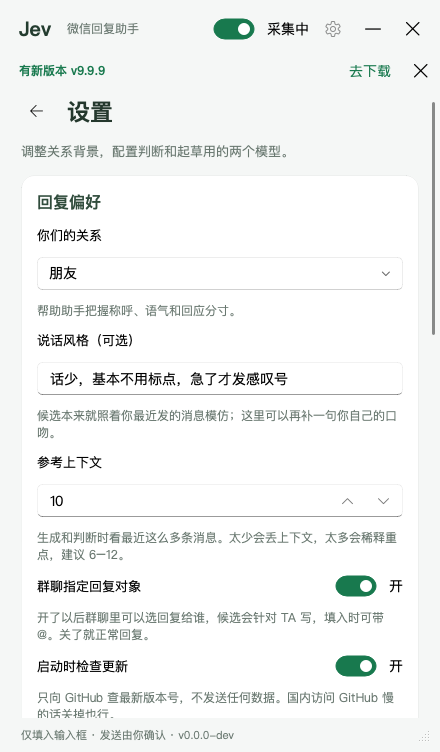
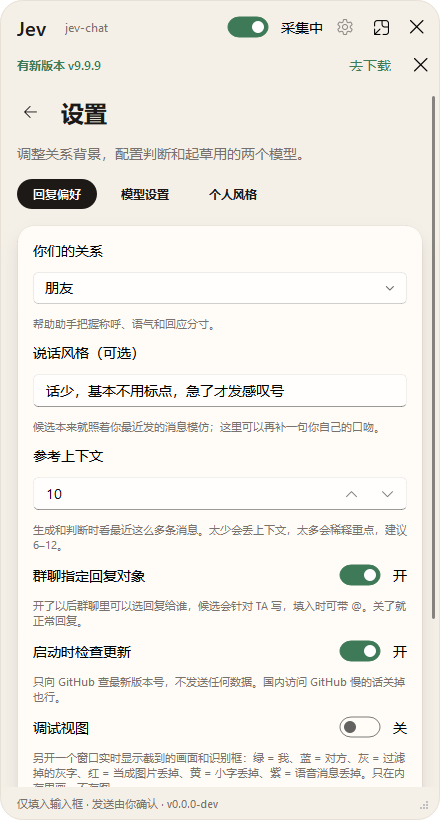
设置加「个人风格」页签，修输入框漏进裁剪，消息攒一波再问
设置页多了第三个页签「个人风格」，内容先空着占位（里面放什么还没定）。
tools/preview_ui.py 加了 --tab，截图能停在指定页签。

chat_area 找输入框顶的判据从「整行同色」换成「细横线」：微信 4.x 的输入框画的是
圆角框，左右两头留着面板底色，整行是混色的，老判据认不出它 → y_in 一路退到面板底 →
裁剪把输入框连底下那条工具栏一起吃了进去。工具栏最左那个笑脸图标 OCR 出来正好是
「?」（众数占比 0.41，离「当图片丢掉」的 0.45 就差一点），于是被当成对方发来的消息，
白触发一次判断——真机上报上来的就是这条「对方刚说 ?」。输入框非空时还会多报一条
绿色的「发送」（分类成 me，进 history）。加了自测 python app/capture.py。

消息改成攒一波再问：对方来消息不立刻调模型，把静默窗口推到 now + 5 + rand(1~5) 秒，
到期由 tick() 点火。这期间消息照常进 history，到期现取一次全喂进去，连着发的几条
只算一次调用、上下文也完整。语音和表情包/图片读不出正文、不进上下文，但也算「还在
说」，有等着的那次就把窗口往后推（子进程新增 noise 消息：画面变了却没认出新文字）。
自己回话就取消待办；从第一条消息起最多等 30 秒。等待期间 phase 停在 notify，宠物角标
留着，候选条写「读到新消息，等他发完再判断」，面板空态换成「对方还在发消息」。

diff --git a/main.py b/main.py
@@ -1,6 +1,7 @@
 # -*- coding: utf-8 -*-
 """父进程：只管界面。截图 + OCR 在 app/worker.py 的子进程里跑，队列里收新消息 →
-冒出新的对方消息才调 engine → 悬浮窗给 3 条候选 → 人点「填入」。发送永远手动。静默期零调用。
+对方来了消息、且安静 5+1~5 秒没再发，才调一次 engine → 悬浮窗给 3 条候选 → 人点「填入」。
+发送永远手动。静默期零调用。
 上下文、结果、聊天记录都按会话名（子进程 OCR 头部标题得来）分开存，切会话不串味。
 
     pip install rapidocr-onnxruntime numpy windows-capture PySide6-Fluent-Widgets
@@ -9,6 +10,7 @@
 import ctypes
 import multiprocessing
 import queue
+import random
 import re
 import threading
 import time
@@ -31,10 +33,16 @@ chats = {}
 # phase 是派生出来的流水线状态（宠物换姿势、候选条显隐都看它），notify_until 是「刚来新消息」
 # 那一下的截止时刻——用时间戳而不是布尔量，省得还要找地方把它清掉
 state = {"area": None, "busy": False, "rerun": None, "hwnd": None, "chat": "",
-         "phase": "idle", "notify_until": 0.0, "voice": None}
+         "phase": "idle", "notify_until": 0.0, "voice": None, "pending": None}
 _NOTIFY_HOLD = 0.9  # 新消息到了先闪这么久「提醒」，再进判断
 _VOICE_WINDOW = 20.0  # 点了「转文字」之后，子进程认「语音气泡下面的新文字」的窗口（秒）
 _HISTORY_DUP = 24  # 判重时往回看这么多条（一屏大概也就十来条）
+# 静默窗口：对方最后一条消息之后再等 5 + rand(1~5) 秒才问模型。连着发的几条（还有表情包、
+# 语音这种读不出正文的）都算「还在说」，把窗口往后推；攒够一次问完，不然每条问一次既费钱，
+# 判断看到的还是半句话。从第一条消息起最多等 _QUIET_MAX，免得对方一直发就一直不问。
+_QUIET_MIN = 5.0
+_QUIET_JITTER = 5.0
+_QUIET_MAX = 30.0
 results = queue.Queue()
 update_result = queue.Queue()  # 独立小队列，别跟 results 的 (kind, r, title, revision) 形状搅在一起
 
@@ -59,6 +67,21 @@ def _voice_label(dur):
     界面上别照搬，并语音那条也要靠这个字串对上号。认不出数字就原样返回。"""
     digits = re.sub(r"\D", "", dur or "")
     return f'{digits}"' if digits else (dur or "")
+
+
+def schedule_analyze(title):
+    """对方来了消息：先别问，把静默窗口往后推，等他不说了再问。
+
+    等多久是随机的（5 + rand(1~5) 秒）：固定间隔会让「对方发完」和「我们开口」卡在同一个
+    节拍上，看着像抢话。窗口到期由 tick() 去点火——那是唯一会动界面的地方。
+    notify_until 一起推到那个时刻，这样等着的这几秒宠物保持「有新消息」的样子（角标在），
+    而不是先闪一下再回到静息态。"""
+    now = time.monotonic()
+    pending = state["pending"]
+    first = pending[2] if pending and pending[0] == title else now
+    deadline = min(now + _QUIET_MIN + random.uniform(1.0, _QUIET_JITTER), first + _QUIET_MAX)
+    state["pending"] = (title, deadline, first)
+    state["notify_until"] = deadline
 
 
 def target_of(title):
@@ -203,6 +226,7 @@ def on_target_change(title, name):
     """用户挑了回复对象：记下来，这个会话里有对方的话就照新对象重跑一次。"""
     chat = chat_of(title)
     chat["target"] = name
+    state["pending"] = None  # 用户自己点的重跑，立刻跑，不等静默窗口
     msgs = list(chat["history"])
     if not any(m[0] == "her" for m in msgs):
         return
@@ -247,7 +271,18 @@ def drain():
                 # 不进喂模型的那份 history——「🔊 语音消息 3"」对模型是噪音）。
                 # 谁发的按气泡底色走：自己发的语音别挂到对方头上
                 ov.log_message(items[-1][5], f"🔊 语音消息 {_voice_label(items[-1][4])}", chat=title)
-                state["notify_until"] = time.monotonic() + _NOTIFY_HOLD
+                # 语音也是「对方还在说」：有等着的那次就把静默窗口往后推。没有就不新开一次
+                # 判断——光一条语音没正文，问了也没得判断，等他自己转文字或者接着说
+                if state["pending"] and state["pending"][0] == title:
+                    schedule_analyze(title)
+                else:
+                    state["notify_until"] = time.monotonic() + _NOTIFY_HOLD
+            continue
+        if kind == "noise":  # 画面变了、却没认出新文字：多半是对方发了表情包/图片
+            # 图片读不出正文，进不了上下文（对模型是噪音，也不该喂），但它说明对方还在发。
+            # 有等着的那次就把窗口往后推，别在他还在发图的时候插嘴
+            if state["pending"] and state["pending"][0] == msg[1]:
+                schedule_analyze(msg[1])
             continue
         if kind == "paused":  # 子进程确认已暂停
             ov.set_capture(False)
@@ -259,7 +294,8 @@ def drain():
             state["area"] = None
             for c in chats.values():  # 在跑的分析作废，回来的结果不再往界面上贴
                 c["rev"] += 1
-            state["rerun"] = None
+            state["rerun"] = state["pending"] = None
+            state["notify_until"] = 0.0
             ov.invalidate_replies()
             ov.set_busy(False)
             ov.set_capture(False, msg[1])
@@ -292,14 +328,12 @@ def drain():
         if not newest:
             continue  # 补记的是中间那条，流水线按屏幕最底下那条走，别动它
         if new[-1][0] == "her":  # 只有对方最新说话才值得分析
-            state["notify_until"] = time.monotonic() + _NOTIFY_HOLD  # 宠物先换个姿势提醒一下
-            msgs = list(chat["history"])
-            if state["busy"]:
-                state["rerun"] = (title, msgs)
-                ov.set_busy(True)
-            else:
-                start_analyze(title, msgs)
+            schedule_analyze(title)  # 不立刻问：等他不说了再问（见 schedule_analyze）
+            ov.set_status("对方刚发来消息，等他发完再给建议", "busy")
+            ov.set_waiting()
         else:
+            state["pending"] = None  # 自己回了话，等着的那次就不用问了
+            state["notify_until"] = 0.0  # 提醒一起收掉：自己回的话，不用再「有新消息」的样子
             state["rerun"] = None
             ov.set_busy(False)
             ov.set_status("你已回复，等待对方的新消息")
@@ -341,7 +375,7 @@ def tick():
         while not results.empty():
             kind, r, title, revision = results.get()
             state["busy"] = False
-            if state["rerun"]:  # 分析期间又来了新消息，接着跑最新的
+            if state["rerun"]:  # 分析期间用户又挑了回复对象，接着跑他挑的那份
                 (t, msgs), state["rerun"] = state["rerun"], None
                 start_analyze(t, msgs)
                 continue
@@ -358,6 +392,12 @@ def tick():
                 ov.set_busy(False)
                 ov.set_status("生成失败，请检查网络和服务设置；新消息到来后会重试。", "error")
                 ov.log(r)
+        # 静默窗口到了才真去问。这期间攒下的消息早就在 history 里了（drain 一收到就记），
+        # 所以这里现取一次，连着发的几条一起喂进去
+        pending = state["pending"]
+        if pending and not state["busy"] and time.monotonic() >= pending[1]:
+            state["pending"] = None
+            start_analyze(pending[0], list(chat_of(pending[0])["history"]))
         refresh_phase()
     except Exception:
         traceback.print_exc()  # 一帧出错不退出

diff --git a/app/capture.py b/app/capture.py
@@ -52,12 +52,41 @@ def unminimize(hwnd):
     return True
 
 
+def _thin_lines(full, bg, x0, x1, y0, y1):
+    """面板里那几根**细横线**的 y 坐标（头部下面一根、输入框顶一根）。
+
+    判据：整行几乎都不是底色（<25%）+ 非底色像素基本同一种颜色 + 厚度 ≤4px。
+    不能要求「整行同色」——微信 4.x 的输入框画的是个圆角框，左右两头留出面板底色，
+    混进来整行的 std 就上去了。真机上就是这么漏判的：y_in 一路退到面板底，裁剪把
+    输入框连底下那条工具栏一起吃了进去，工具栏最左那个笑脸图标被 OCR 读成「?」、
+    还当成对方发来的消息，白触发一次判断（输入框非空时还会多报一条绿色的「发送」）。
+    厚度那道是给窗口底边/阴影那种厚块用的：线是细的，厚块不是。"""
+    band = full[y0:y1, x0:x1].astype(int)
+    ink = np.abs(band - bg).sum(-1) > 6  # 这一行里哪些像素不是底色
+    cnt = ink.sum(1)
+    mean = (band * ink[..., None]).sum(1) / np.maximum(cnt, 1)[:, None]  # 非底色像素的均值色
+    near = ((np.abs(band - mean[:, None, :]).max(-1) <= 12) | ~ink).sum(1) / np.maximum(cnt, 1)
+    thin = (cnt > 0) & (1.0 - cnt / max(1, x1 - x0) < 0.25) & (near > 0.9)
+    lines, i = [], 0
+    while i < len(thin):
+        if not thin[i]:
+            i += 1
+            continue
+        j = i
+        while j + 1 < len(thin) and thin[j + 1]:
+            j += 1
+        if j - i + 1 <= 4:
+            lines.append(y0 + i)
+        i = j + 1
+    return lines
+
+
 def chat_area(full, header_h=60):
     """消息列表区 (x0, y_top, x1, y_in, 面板底色, y_pane)，全靠像素锚点，不写死坐标，深浅主题通用：
     - 面板底色 = 右半边最常见的颜色（抽样算，全量 np.unique 在 2560 宽的图上要半秒）
     - 面板左/右边界 = 第一/最后一根「底色占比 > 30%」的列（联系人列表是另一种底色，占比 0）
     - y_pane = 面板第一行；会话名就印在 y_pane~y_top 这条头部里（公告条也在里面）
-    - 横向分隔线 = 整行单色且非底色；输入框顶 y_in = 面板 45% 高度以下第一根；
+    - 横向分隔线 = 细横线（见 _thin_lines）；输入框顶 y_in = 面板 45% 高度以下第一根；
       公告条下面那根（有的话）= 消息区顶 y_top，没有就用 header_h
     认不出（窗口太小 / 拖到一半布局没铺好）返回 None。
     ponytail: 输入框拉高超过面板一半会认错；header_h 按 100% DPI 给的，缩放了按比例调。"""
@@ -72,9 +101,7 @@ def chat_area(full, header_h=60):
     row = isbg[:, x0:x1].mean(1)
     y0 = int(np.argmax(row > 0.9))
     y1 = H - int(np.argmax(row[::-1] > 0.9))
-    band = full[y0:y1, x0:x1].astype(int)
-    seps = y0 + np.where((band.std(axis=(1, 2)) < 4) & (row[y0:y1] < 0.1))[0]
-    seps = [int(s) for i, s in enumerate(seps) if i == 0 or s - seps[i - 1] > 3]
+    seps = _thin_lines(full, bg, x0, x1, y0, y1)
     below = [s for s in seps if s > y0 + 0.45 * (y1 - y0)]
     y_in = below[0] if below else y1
     above = [s for s in seps if y0 + header_h < s < y_in - 50]
@@ -141,3 +168,20 @@ class Capture:
 
     def wait(self):
         self.ctl.wait()  # 采集线程若是报错死的，这里把错误抛出来
+
+
+if __name__ == "__main__":
+    # 合成一帧试 chat_area：面板底色 250，头部下面一根分隔线，一条消息气泡，
+    # 输入框顶画成**圆角框的横边**（两头各留 20px 底色，跟微信 4.x 一样）。
+    # 老判据「整行同色」在这儿认不出它，y_in 会退到面板底（400），裁剪把底下那条
+    # 工具栏一起吃进去——真机上就是这么冒出一条「?」的假消息的。
+    frame = np.full((400, 300, 3), 250, np.uint8)
+    frame[70, :] = 200            # 头部下面那根分隔线
+    frame[120:150, 30:180] = 232  # 一条消息气泡（横不满一行，不算分隔线）
+    frame[300, 20:280] = 200      # 输入框顶
+    frame[330:350, 30:60] = 90    # 工具栏图标（真机上会被 OCR 读成「?」）
+    area = chat_area(frame)
+    assert area is not None, "这帧不该认不出来"
+    assert area[3] == 300, f"输入框顶该是 300，认成了 {area[3]}"
+    assert area[1] == 70, f"消息区顶该是 70，认成了 {area[1]}"
+    print("capture.chat_area ok")

diff --git a/app/overlay.py b/app/overlay.py
@@ -314,7 +314,7 @@ class _CandidateBar(QWidget):
     所以背景画在 frame 上、阴影也挂在 frame 上。"""
     _PILL = {"scanning": "OCR", "notify": "提醒", "thinking": "判断", "ready": "候选"}
     _BUSY = {"scanning": "正在截取聊天窗口并 OCR…",
-             "notify": "读到新消息，开始判断",
+             "notify": "读到新消息，等他发完再判断",
              "thinking": "Jev 判断中，正在起草三条回复"}
     _ROWS = 3
 
@@ -993,7 +993,8 @@ class Overlay:
         tabs = QHBoxLayout()
         tabs.setSpacing(GAP_SM)
         self.tabButtons = {}
-        for key, text in (("preference", "回复偏好"), ("models", "模型设置")):
+        for key, text in (("preference", "回复偏好"), ("models", "模型设置"),
+                          ("style", "个人风格")):
             button = QPushButton(text)
             button.setCheckable(True)
             button.setCursor(Qt.PointingHandCursor)
@@ -1095,6 +1096,21 @@ class Overlay:
         ))
         self.preferenceCard = preference
         body.addWidget(preference)
+
+        # 第三页签「个人风格」：里面放什么还没定，先占个位。页签这一排一起摆出来，
+        # 免得后加的时候又得动这一行和 _switch_tab
+        style = _Surface()
+        box = QVBoxLayout(style)
+        box.setContentsMargins(GAP_LG, GAP_LG, GAP_LG, GAP_LG)
+        box.setSpacing(GAP_MD)
+        # 这段说明用 _label 不用 _hint：它是这张卡唯一的内容，而 _hint 在紧凑模式下会被
+        # 整批藏掉，那样就剩一张空卡片，看着像坏了
+        box.addWidget(_label(
+            "这一页先占个位：之后往这儿放你自己的说话习惯——口头禅、常挂嘴边的词、"
+            "怎么称呼对方、标点怎么用。比「回复偏好」里那句「说话风格」更细，只影响起草出来的候选。",
+            FONT_MD, _MUTED))
+        self.styleCard = style
+        body.addWidget(style)
 
         models = _Surface()
         box = QVBoxLayout(models)
@@ -1476,13 +1492,14 @@ class Overlay:
         (self.relationshipBox if configured else self.jev.keyEdit).setFocus()
 
     def _switch_tab(self, key):
-        """设置页的两页签：只切显隐，控件不重建——重建会把用户填了一半的内容弄丢。"""
+        """设置页的页签：只切显隐，控件不重建——重建会把用户填了一半的内容弄丢。"""
         for name, button in self.tabButtons.items():
             active = name == key
             button.setChecked(active)
             button.setStyleSheet(_tab_qss(active))
         self.preferenceCard.setVisible(key == "preference")
         self.modelsCard.setVisible(key == "models")
+        self.styleCard.setVisible(key == "style")
 
     def _back_home(self):
         self.jev.keyEdit.clear()
@@ -1575,6 +1592,17 @@ class Overlay:
         for card in self.cards:
             card.set_available(self._current and not busy)
         self._sync_bar()
+
+    def set_waiting(self):
+        """对方还在发消息（静默窗口里等）：把空态说清楚。
+
+        这会儿既没候选也没在跑分析，空态默认是「等待对方的新消息」——刚收到消息还这么说，
+        看着像没反应。等到真开始判断（set_busy）或者他发完了，文案自然会被换掉。"""
+        if self.cands or self._busy:
+            return
+        self.emptyTitle.setText("对方还在发消息")
+        self.emptyHint.setText("等他不说了再给建议，免得你回到半句上。")
+        self.setupButton.hide()
 
     def _empty_text(self):
         """空态卡片的默认文案，配好没配好两套说法。"""

diff --git a/app/worker.py b/app/worker.py
@@ -11,6 +11,9 @@ import numpy as np
 from app.capture import Capture, chat_area, unminimize
 from app.ocr import Reader, read_title, similar
 
+_TAIL_H = 150  # 「画面变了却没认出新文字」看的是消息区最底下这么高一条
+_TAIL_DIFF = 0.08  # 变了这么多才算对方发了东西，鼠标划过高亮那点变化不算
+
 
 def _err(q):
     """异常压成一行发给父进程，子进程的 stderr 一般没人看得见。"""
@@ -45,6 +48,7 @@ def run(q, hwnd, enabled, debug_on, voice_until=None):
     last_area = None  # 上次发给父进程的 4 元组，变了才再发一次
     last_voice = None  # 上次发过去的语音气泡，变了才再发（拖动/滚动时位置一直在变，别每帧刷）
     warned = False  # 消息区识别失败是否已经报过，拖窗口时别每帧刷一条
+    tail = None  # 上一帧消息区最底下那条，用来认「画面变了却没认出新文字」
     while True:
         if not enabled.is_set():
             if cap is not None:
@@ -91,14 +95,25 @@ def run(q, hwnd, enabled, debug_on, voice_until=None):
                         name = name or title or "当前会话"
                         if name != title:
                             title = name
+                            tail = None  # 换了会话，底下那条没有可比性了
                             q.put(("chat", title))
                     reader = readers.setdefault(title, Reader())
                     lines = reader.read(full[y0:y1, x0:x1], bg)
+                    # 帧是「画面变了」才交上来的，可变完却没认出新文字——多半是对方发了
+                    # 表情包/图片（OCR 读不出正文），也可能是鼠标划过高亮。父进程拿它把静默
+                    # 窗口往后推：对方还在发，这会儿问出来的是半句话。只看最底下那一条、
+                    # 还要变化够大，鼠标悬停那点小高亮推不动它。比完就更新，跟认没认出新文字无关
+                    bottom = full[max(y0, y1 - _TAIL_H):y1, x0:x1]
+                    moved = (tail is not None and tail.shape == bottom.shape
+                             and (bottom != tail).mean() > _TAIL_DIFF)
+                    tail = bottom.copy()
                     # 只有刚点过「转文字」那一小会儿，才认插在语音气泡下面的新文字
                     converting = voice_until is not None and time.monotonic() < voice_until.value
                     new = reader.new_lines(lines, under_voice=converting)
                     if new:
                         q.put(("lines", title, new, rect))
+                    elif moved:
+                        q.put(("noise", title))
                     # 语音气泡：Reader 那边按坐标裁剪过，这里加回裁剪原点，父进程才好换算成屏幕坐标。
                     # 只发**还没转过文字**的（last_voice_open）——转过的就别再提示「转文字」了
                     voice = tuple((x0 + a, y0 + b, x0 + c, y0 + d, t, k)

diff --git a/tools/preview_ui.py b/tools/preview_ui.py
@@ -114,6 +114,8 @@ def main() -> int:
     )
     parser.add_argument("--state", choices=_STATES, default="ready", help="预览界面状态")
     parser.add_argument("--screenshot", metavar="PATH", help="将演示界面保存为 PNG 后退出（合成数据，不含微信内容）")
+    parser.add_argument("--tab", choices=("preference", "models", "style"),
+                        help="设置页停在哪个页签（配合 --state settings）")
     parser.add_argument("--relay", action="store_true",
                         help="演示第三方中转那组字段（地址 / 判断接口路径 / 思考开关的传法）")
     args = parser.parse_args()
@@ -259,6 +261,8 @@ def main() -> int:
                 ov.set_status("演示模式：分析失败，请检查网络和密钥，等待下一条消息后重试。", kind="error")
             elif args.state == "settings":
                 ov.open_settings()
+                if args.tab:
+                    ov._switch_tab(args.tab)
             elif args.state == "paused":
                 ov.set_capture(False)
             elif args.state == "log":

diff --git a/README.md b/README.md
@@ -77,14 +77,16 @@ $env:PYTHONPATH="."; python probe/probe_relay.py
 **日常怎么用**
 
 - 聊天窗口开着、别最小化（用别的窗口盖住没事），把要聊的会话点开
-- 对方来一条消息 → 悬浮窗几秒后给判断摘要 + 三条候选（带 Jev 给的胜出概率）
+- 对方来消息 → 等他安静 5 + 随机 1~5 秒（连着发的几条、表情包都算「还在说」）→ 悬浮窗给判断摘要
+  + 三条候选（带 Jev 给的胜出概率）
 - 点「填入」→ 文字进输入框 → **你自己看一眼、改一改、按发送**。程序永远不碰发送
 - 你切到哪个会话，悬浮窗就跟到哪个；群聊会带上发言人名，想指定回复给谁去设置里开「群聊指定回复对象」
 - 暂时不想让它读聊天：标题栏开关拨到「已暂停」
 
 **花多少钱**
 
-只有对方来新消息才调一次模型：一次起草（DeepSeek Flash）+ 一次 Jev 判断，十分钟没人说话就是十分钟零调用。
+只有对方来新消息才调模型，而且连着发的几条会攒成一次：一次起草（DeepSeek Flash）+ 一次 Jev 判断，
+十分钟没人说话就是十分钟零调用。
 思考模式默认关，别开——起草三句话用不上，慢好几倍还贵。
 
 ## 截图
@@ -96,7 +98,7 @@ $env:PYTHONPATH="."; python probe/probe_relay.py
 </tr>
 <tr>
 <td align="center">回复建议：「当前会话」跟随当前窗口、群聊多一行「回复对象」，3 条候选带 Jev 概率百分比，推荐那条置顶</td>
-<td align="center">设置：关系背景、说话风格、参考上下文条数、群聊指定回复对象（往下还有「模型」卡片）</td>
+<td align="center">设置：分「回复偏好 / 模型设置 / 个人风格」三页签——关系背景、说话风格、参考上下文条数、群聊指定回复对象（「模型设置」里是两个模型的来源和密钥）</td>
 </tr>
 <tr>
 <td width="50%"><img src="docs/ui_log.png" alt="聊天记录"></td>
@@ -168,9 +170,10 @@ $env:PYTHONPATH="."; python probe/probe_relay.py
   只点它旁边微信自己冒出来的那个「转文字」小按钮。**全程不开右键菜单**，所以永远碰不到菜单里的
   「删除」；按钮旁边就是空聊天区，点歪了顶多没反应。发送、删除、撤回、转账、红包一律不碰。
 - **不碰钱。** 转账、红包、收款相关的界面元素一律不碰，起草的 system prompt 里也禁了这几个话题。
-- **只有对方的新消息到来（或你在群里换了回复对象）才调一次模型。** 静默期零调用——十分钟没人说话
-  就是十分钟零 token。重复报上来的旧消息不算：子进程一份去重状态，父进程再拿会话记录兜一道，
-  往上翻记录、把窗口拉高、采集重开，都不会白触发一次判断。
+- **只有对方的新消息到来（或你在群里换了回复对象）才调一次模型，而且连着发的几条只算一次。**
+  对方最后一条消息之后要安静 5 + 随机 1~5 秒才真去问：这几秒里来的消息都攒着，到期一起喂进去。
+  静默期零调用——十分钟没人说话就是十分钟零 token。重复报上来的旧消息不算：子进程一份去重状态，
+  父进程再拿会话记录兜一道，往上翻记录、把窗口拉高、采集重开，都不会白触发一次判断。
 - **API key 只进环境变量，而且全程只有两个。** `JEV_API_KEY`（判断）和 `LLM_API_KEY`（起草），
   不管来源选哪家都是这两个槽。都写进注册表 `HKCU\Environment`（跟 `setx` 同一个地方），任何文件里
   都不出现 key，也绝不进日志（报错文本一律脱敏）。老版本按来源分开存的 `OPENROUTER_API_KEY` /
